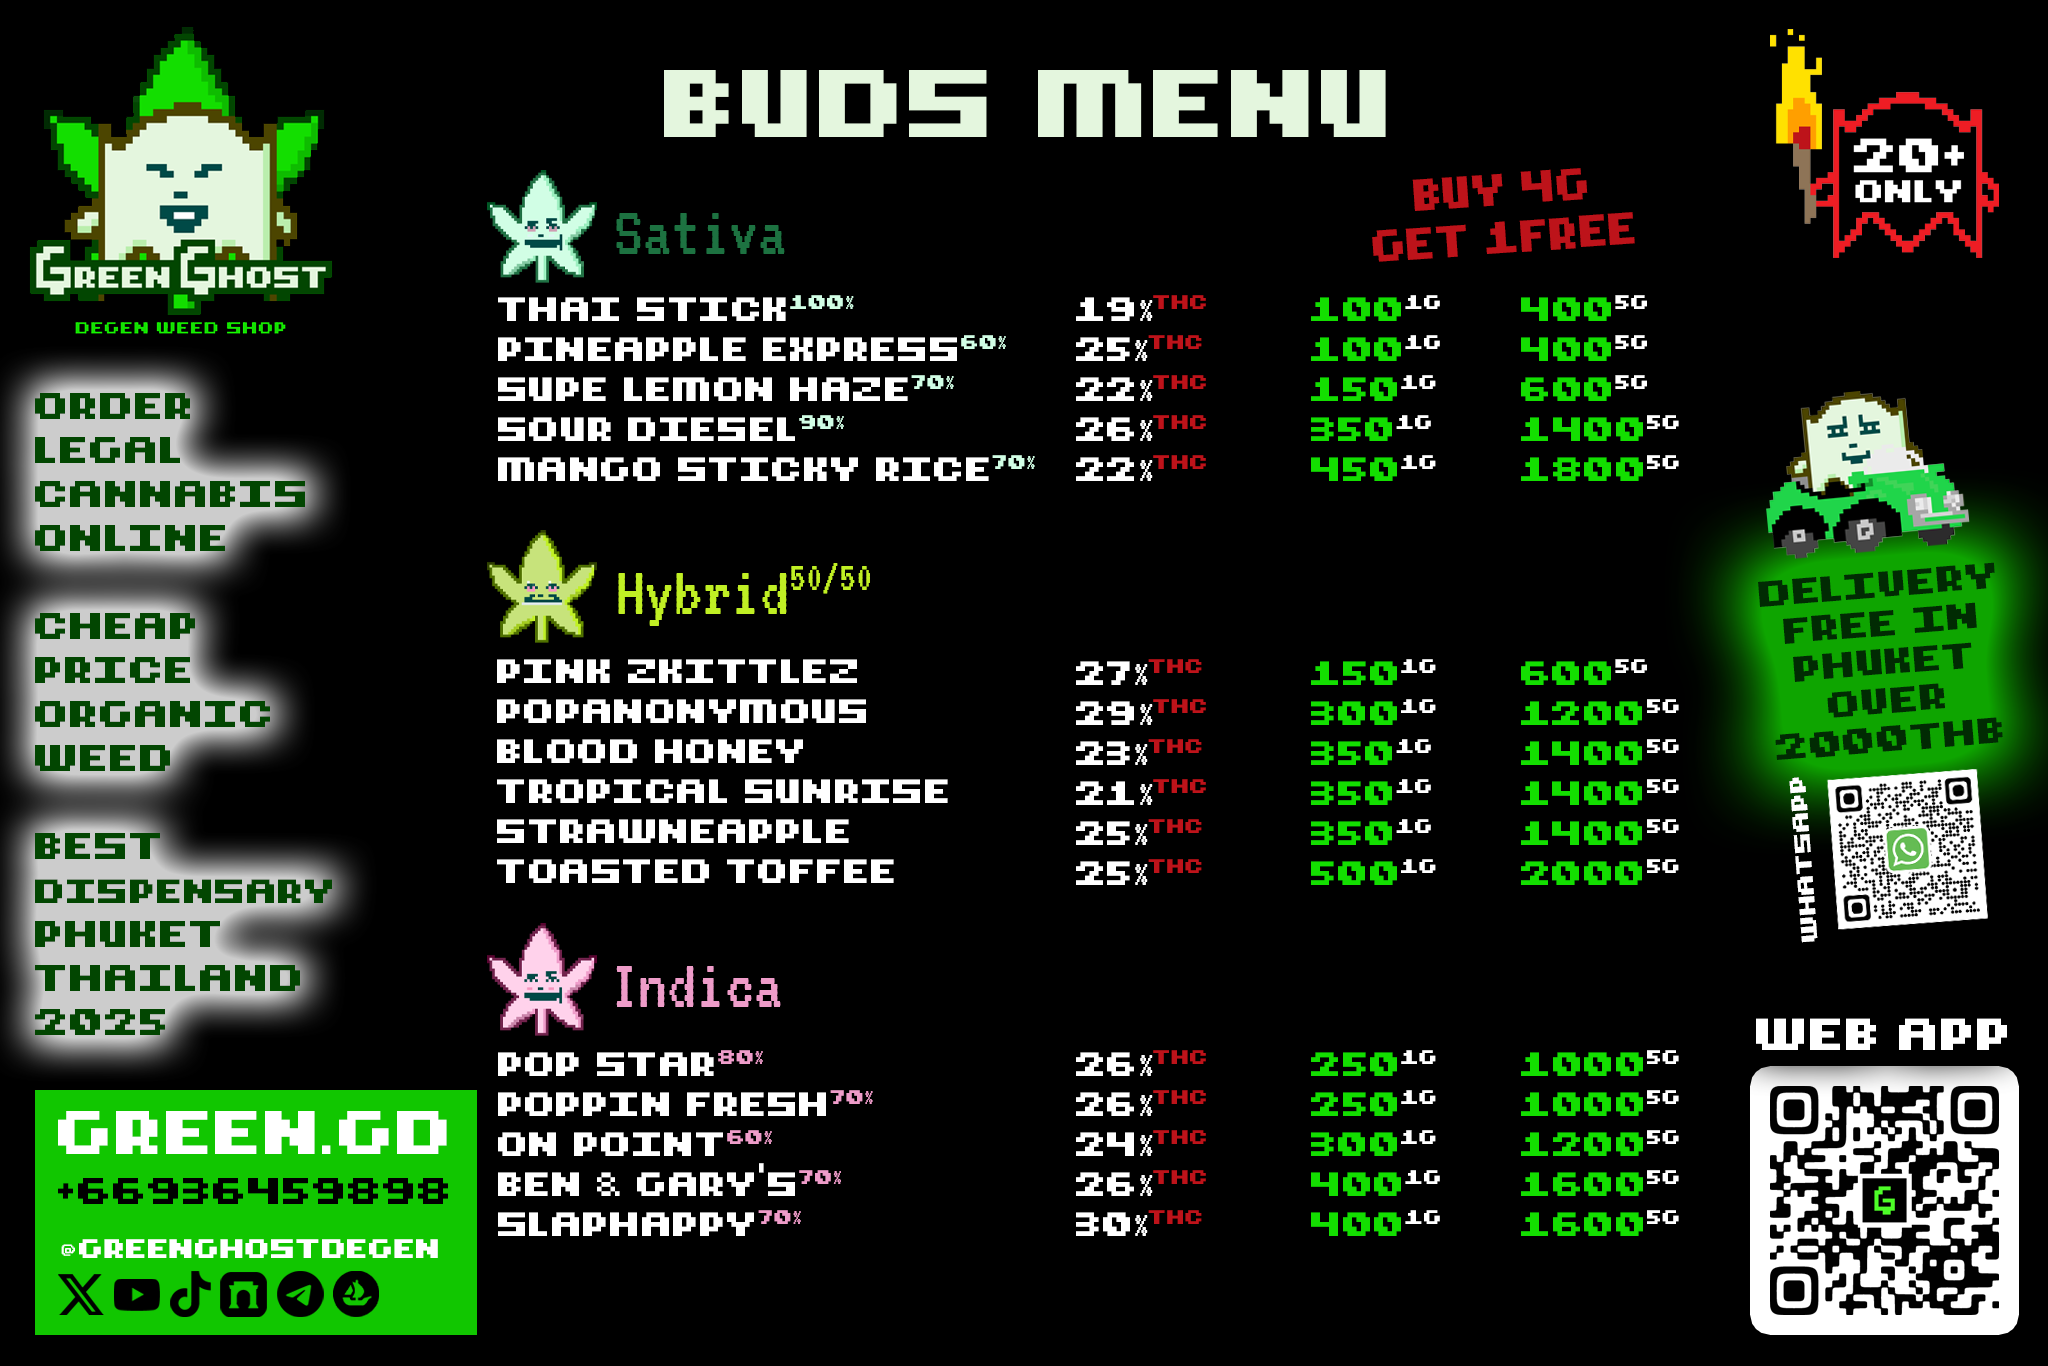
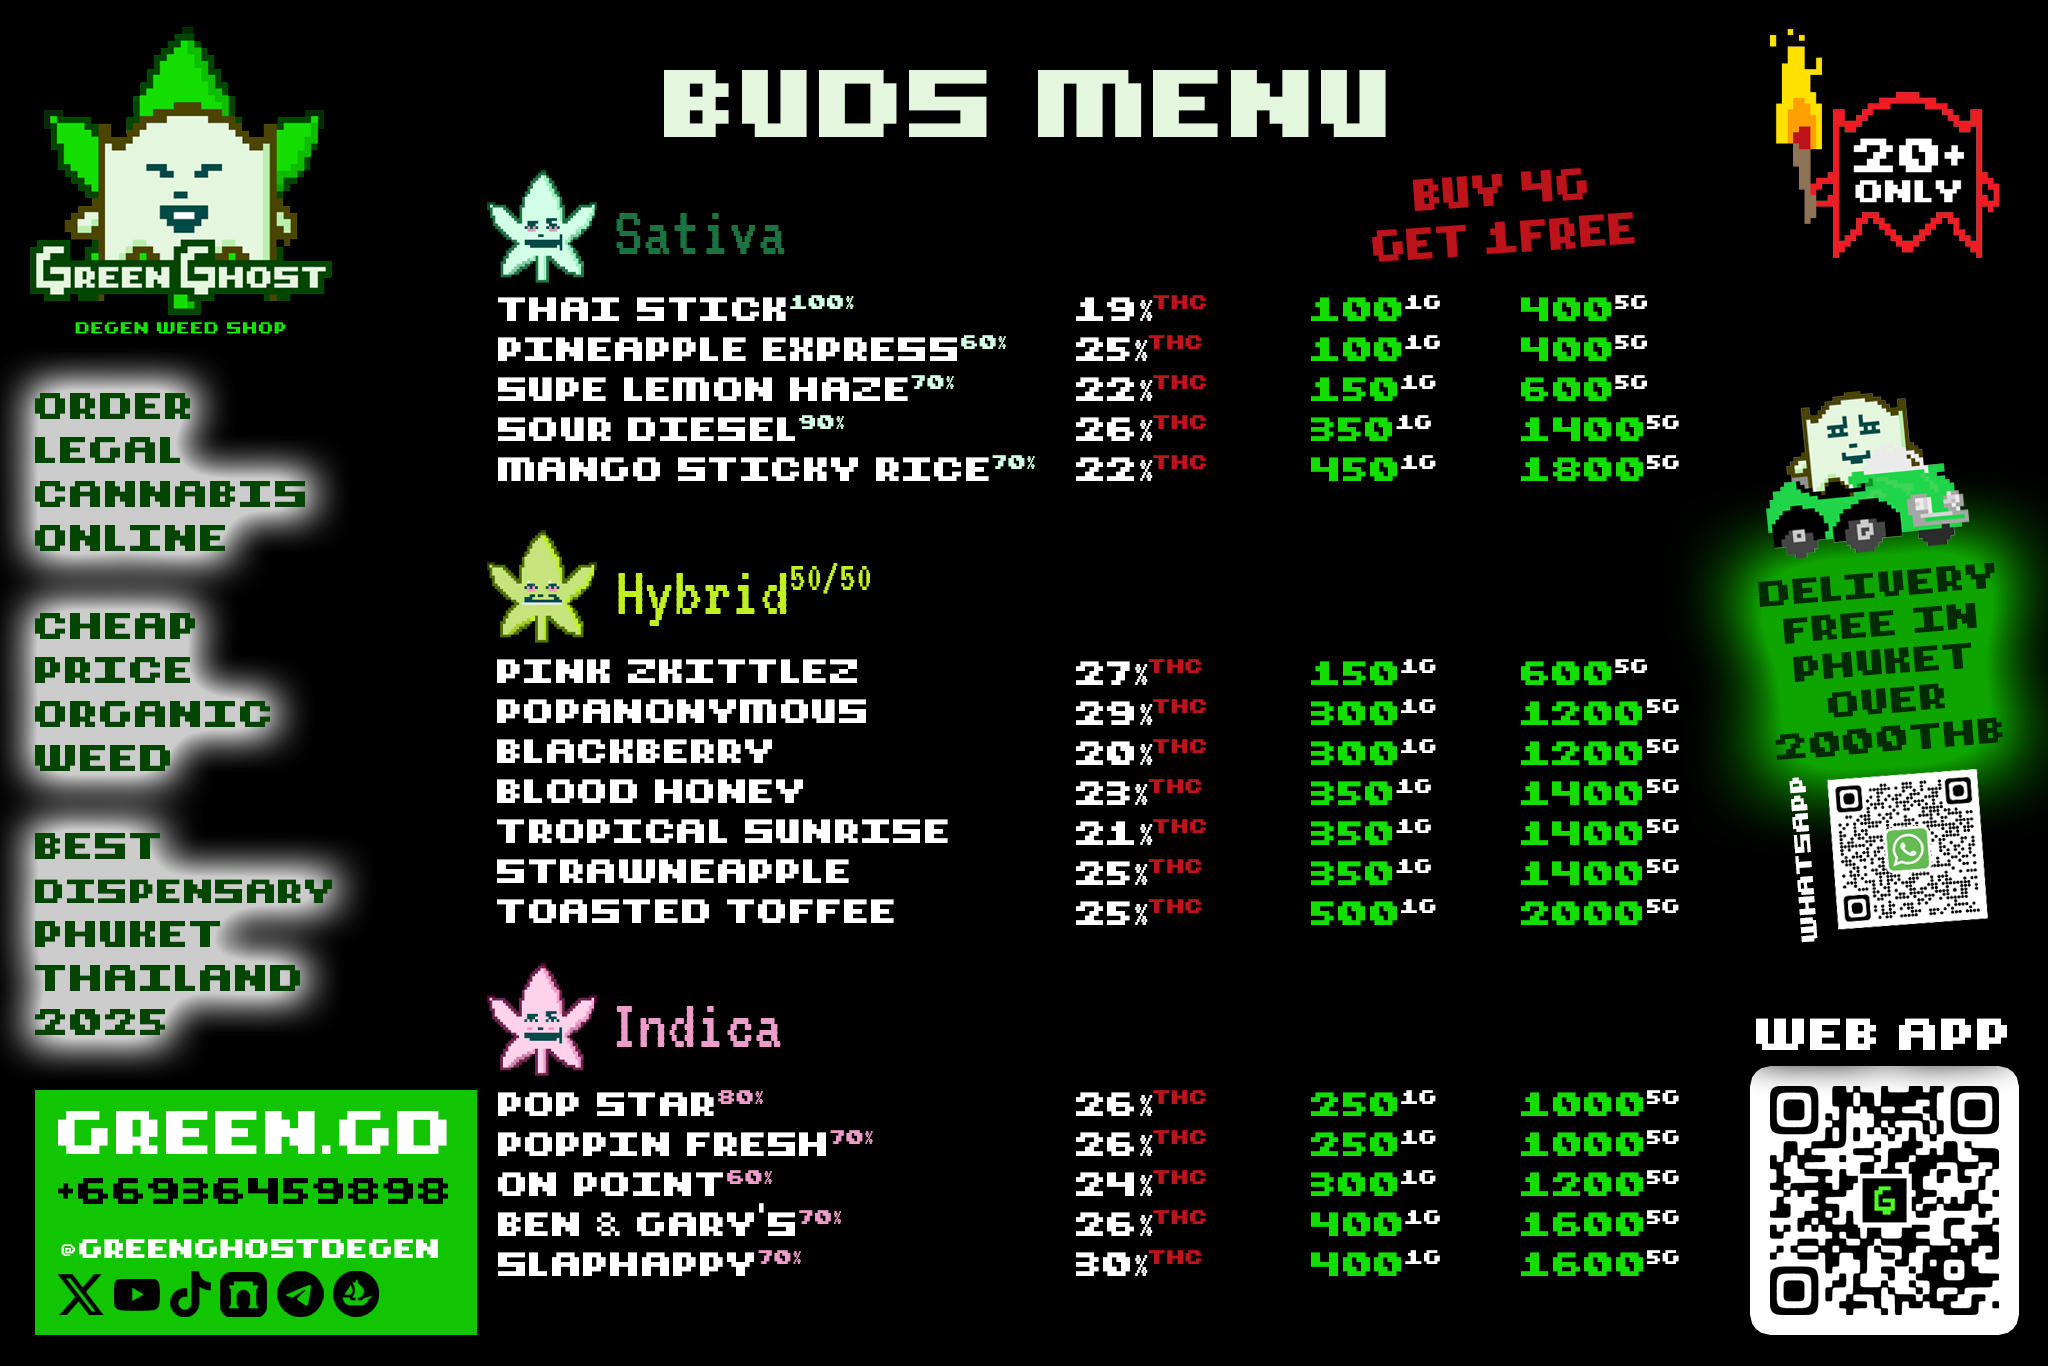
Update menu + location

diff --git a/config/buds.ts b/config/buds.ts
@@ -1064,7 +1064,7 @@ export const buds: Bud[] = [
     quantity: 50,
     origin: 'Phuket',
     description:
-      'Savor Tropical Sunrise, a vibrant hybrid (50% indica/50% sativa) from Grape God and Mandarin Sunset strains, crafted on a GACP-certified farm in Thailand. Its summery aroma blends sweet tropical citrus with juicy grape notes, woody pine, and subtle spices, igniting the senses. The flavor bursts with zesty citrus, followed by a smooth, sweet grape finish that lingers delightfully. Grown under Thailand’s GACP standards, ensuring rigorous quality, safety, and traceability, this strain boasts 17-21% THC for an uplifting, euphoric high that sparks creativity and eases the body. Its neon-green buds, adorned with orange hairs and frosty golden trichomes, reflect premium craftsmanship. Sourced from Thailand’s tropical climate, ideal for potent hybrids, Tropical Sunrise evokes a serene beach sunset, blending energy and relaxation. This GACP-certified gem, compliant with Thai FDA standards, delivers an authentic, high-quality experience for cannabis enthusiasts seeking Thailand’s finest.',
+      'Savor Tropical Sunrise, a vibrant hybrid (50% indica/50% sativa) from Grape God and Mandarin Sunset strains, crafted on a GACP-certified farm in Thailand. Its summery aroma blends sweet tropical citrus with juicy grape notes, woody pine, and subtle spices, igniting the senses. The flavor bursts with zesty citrus, followed by a smooth, sweet grape finish that lingers delightfully. \n\n Grown under Thailand’s GACP standards, ensuring rigorous quality, safety, and traceability, this strain boasts 17-21% THC for an uplifting, euphoric high that sparks creativity and eases the body. Its neon-green buds, adorned with orange hairs and frosty golden trichomes, reflect premium craftsmanship. Sourced from Thailand’s tropical climate, ideal for potent hybrids, Tropical Sunrise evokes a serene beach sunset, blending energy and relaxation. This GACP-certified gem, compliant with Thai FDA standards, delivers an authentic, high-quality experience for cannabis enthusiasts seeking Thailand’s finest.',
     descSeo:
       'Tropical Sunrise, a GACP-certified hybrid, blends citrus and grape flavors with 17-21% THC. Grown in Thailand for euphoric highs.',
     images: [
@@ -1074,6 +1074,36 @@ export const buds: Bud[] = [
     ],
     imgDesc: 'Order Tropical Sunrise Cannabis Strain Online',
     source: 'https://www.leafly.com/strains/tropical-sunrise',
+  },
+  {
+    slug: 'blackberry',
+    name: 'Blackberry',
+    priceWholesale: 50,
+    price: 300,
+    dominance: 'Hybrid',
+    indica: '50',
+    sativa: '50',
+    THC: '20',
+    CBD: '0',
+    effects: 'Sleepy, Relaxed, Aroused',
+    relieves: 'Fatigue, Inflammation, Depression',
+    grower: 'Green Ghost',
+    growerSlug: '',
+    environment: 'Indoor',
+    grade: 'AAAA Grade',
+    quantity: 50,
+    origin: 'Phuket',
+    description:
+      'Savor Blackberry, a hybrid strain from Black Domina and Raspberry Cough, grown on a GACP-certified farm in Thailand. Its bold aroma blends juicy fruit and fuel, with earthy undertones, evoking ripe berries. The flavor delights with smooth, sweet berry notes. With 20% THC, Blackberry delivers a buzzy, relaxing high, sparking energy, talkativeness, and sociability. Its purple-hued buds, dotted with white crystals and orange hairs, shine with quality. \n\n Crafted under Thailand’s GACP standards for safety and traceability, it’s free from pesticides and heavy metals. Less dense but visually stunning, Blackberry thrives in Thailand’s tropical climate, perfect for daytime vibes. This strain offers a cerebral and body high, ideal for social settings or creative bursts, evoking a lively Thai beach festival. Its GACP-certified purity and vibrant effects make Blackberry a top pick for cannabis enthusiasts seeking an authentic, fruit-forward experience in Thailand’s dynamic weed culture.',
+    descSeo:
+      'Blackberry, a GACP-certified hybrid, blends berry and fuel flavors with 20% THC. Grown in Thailand for a buzzy, social high. ',
+    images: [
+      '/media/green-ghost-degen-weed-shop-strain-blackberry-cover.webp',
+      '/media/green-ghost-degen-weed-shop-strain-blackberry-cover.webp',
+      '/media/green-ghost-degen-weed-shop-strain-blackberry-cover.webp',
+    ],
+    imgDesc: 'Order Blackberry Cannabis Strain Online',
+    source: 'https://www.leafly.com/strains/blackberry',
   },
   {
     slug: 'strawneapple',

diff --git a/config/shops.ts b/config/shops.ts
@@ -2,6 +2,7 @@ export type Shop = {
   slug: string;
   name: string;
   hours: string;
+  phone: string;
   address: string;
   addresLink: string;
   reviewLink: string;
@@ -20,6 +21,7 @@ export const shops: Shop[] = [
     slug: 'rawai',
     name: 'Best Degen Weed Shop and Delivery in Rawai',
     hours: 'Everyday 14h-2h.',
+    phone: '+66936459898',
     address: '26, 19 Wiset Rd, Rawai, Amphoe Mueang Phuket, Phuket 83130',
     addresLink: 'https://maps.app.goo.gl/5AGqxpdoqxMN6iSHA',
     reviewLink: 'https://g.page/r/CYOr82juHaKhEBM/review',
@@ -67,6 +69,7 @@ export const shops: Shop[] = [
     slug: 'karon',
     name: 'Best Degen Weed Shop and Delivery in Karon',
     hours: 'Monday/Saturday 18h-00h.',
+    phone: '+66936459898',
     address: '452 Patak Road, Karon, Mueang Phuket District, Phuket 83100',
     addresLink: 'https://maps.app.goo.gl/bcFR9XFSS9M29HK7A',
     reviewLink: 'https://g.page/r/CcPCrFf7RfRNEBM/review',
@@ -114,6 +117,7 @@ export const shops: Shop[] = [
     slug: 'phuket',
     name: 'Best Degen Weed Shop and Delivery in Phuket',
     hours: 'Everyday 8h-2h.',
+    phone: '+66936459898',
     address: '17 Thalang Rd, Talat Yai, Mueang Phuket District, Phuket 83000',
     addresLink: 'https://maps.app.goo.gl/BcFn7La6ayi8jUh46',
     reviewLink: 'https://g.page/r/CdEZf4I4iGn8EBE/review',
@@ -142,6 +146,38 @@ export const shops: Shop[] = [
       {
         label: 'Apple Map',
         link: 'https://maps.apple.com/?address=17%20Thalang%20Rd.,%20Phuket,%20Phuket%2083000,%20Thailand&auid=4961311243724311645&ll=7.884924,98.387895&lsp=9902&q=Green%20Ghost%20Phuket%20Town%20%7C%20Weed%20Delivery',
+      },
+    ],
+  },
+  {
+    slug: 'paris',
+    name: 'Best Degen CBD Shop and Delivery in Paris',
+    hours: 'Always open.',
+    phone: '+33651368196',
+    address: '1 Square du Thimerais, 75017 Paris',
+    addresLink: 'https://maps.app.goo.gl/knQqzvWWzKkgY7339',
+    reviewLink: '#',
+    details: 'Delivery Only. No in-store shopping 🚚',
+    description:
+      'Discover Green Ghost CBD France 🌿👻, the premier online destination for premium CBD flowers, oils, concentrates, and gummies, delivered straight to your door across France. Operating exclusively online, we offer lab-tested products with THC < 0.3%, sourced from trusted EU partners to ensure unmatched purity and potency. Our curated selection caters to all lifestyles, blending quality with the vibrant energy of Paris’ CBD scene. Enjoy fast, discreet delivery with secure, neutral packaging, perfect for seamless wellness integration. From bustling city apartments to serene countryside homes, Green Ghost CBD brings relaxation to every corner of France. Our user-friendly platform makes ordering effortless, with a commitment to transparency and excellence. Join the degen vibe and explore our top-tier CBD offerings, crafted to elevate your daily experience with authenticity and quality. For orders in France only, Green Ghost CBD is your trusted source for a unique, high-quality CBD journey.',
+    descSeo:
+      'Green Ghost CBD France 🌿👻, your online shop for premium CBD flowers, oils, and gummies. Lab-tested, THC < 0.3%, with fast, discreet delivery.',
+    mapLink:
+      'https://www.google.com/maps/embed?pb=!1m18!1m12!1m3!1d5246.8940370656155!2d2.2946603769076264!3d48.887817398634546!2m3!1f0!2f0!3f0!3m2!1i1024!2i768!4f13.1!3m3!1m2!1s0x47e66f99e4c3057f%3A0xd556d93ffc59e7c5!2s1%20Sq.%20du%20Thimerais%2C%2075017%20Paris!5e0!3m2!1sen!2sfr!4v1755346094441!5m2!1sen!2sfr',
+    videoLink: 'https://www.youtube.com/embed/8x0aKDRP4q4',
+    imagesOg: 'green-ghost-best-degen-weed-shop-delivery-phuket-thailand.webp',
+    images: [
+      '/media/green-ghost-degen-weed-shop-phuket-thailand-cannabis-delivery-01.webp',
+      '/media/green-ghost-degen-weed-shop-phuket-thailand-cannabis-delivery-02.webp',
+      '/media/green-ghost-degen-weed-shop-phuket-thailand-cannabis-delivery-03.webp',
+      '/media/green-ghost-degen-weed-shop-phuket-thailand-cannabis-delivery-04.webp',
+      '/media/green-ghost-degen-weed-shop-phuket-thailand-cannabis-delivery-05.webp',
+      '/media/green-ghost-degen-weed-shop-phuket-thailand-cannabis-delivery-06.webp',
+    ],
+    socialLinks: [
+      {
+        label: 'Website',
+        link: 'https://greenghostcbd.fr',
       },
     ],
   },

diff --git a/pages/locations/[slug].tsx b/pages/locations/[slug].tsx
@@ -225,11 +225,11 @@ export default function ShopPage({ shop }: ShopPageProps) {
                   mb={2}
                 >
                   <Link
-                    title={`Call: +66936459898`}
-                    href="tel:+66936459898"
+                    title={`Call: ${shop.phone}`}
+                    href={`tel:${shop.phone}`}
                     passHref
                   >
-                    +66936459898
+                    {shop.phone}
                   </Link>
                 </Text>
                 <Text

diff --git a/pages/api/locations.ts b/pages/api/locations.ts
@@ -2,6 +2,6 @@ import { NextApiRequest, NextApiResponse } from 'next';
 
 export default function handler(req: NextApiRequest, res: NextApiResponse) {
   res.status(200).json({
-    slugs: ['rawai', 'karon', 'phuket'], // Replace with real slugs
+    slugs: ['rawai', 'karon', 'phuket', 'paris'], // Replace with real slugs
   });
 }

diff --git a/pages/api/strains.ts b/pages/api/strains.ts
@@ -10,6 +10,7 @@ export default function handler(req: NextApiRequest, res: NextApiResponse) {
       'banana-kush',
       'ben-and-garys',
       'black-cherry-punch',
+      'blackberry',
       'blood-honey',
       'bruce-banner',
       'bubble-mango',
